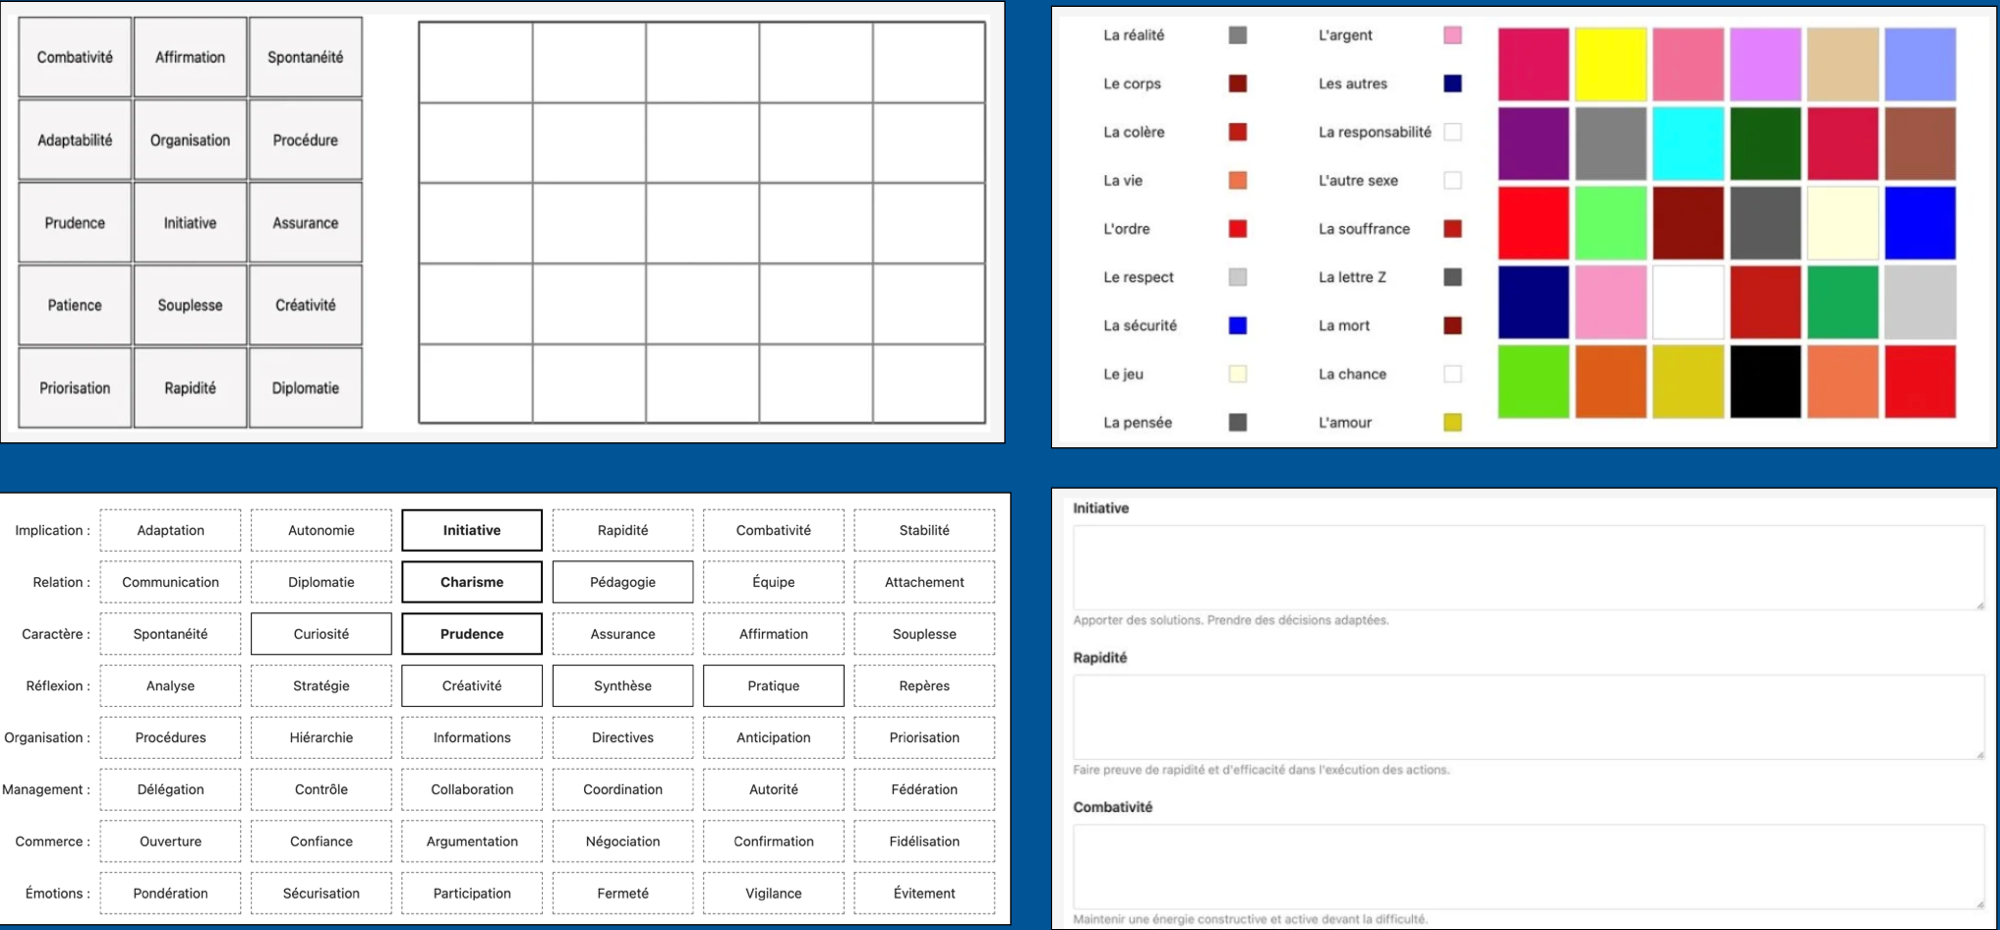
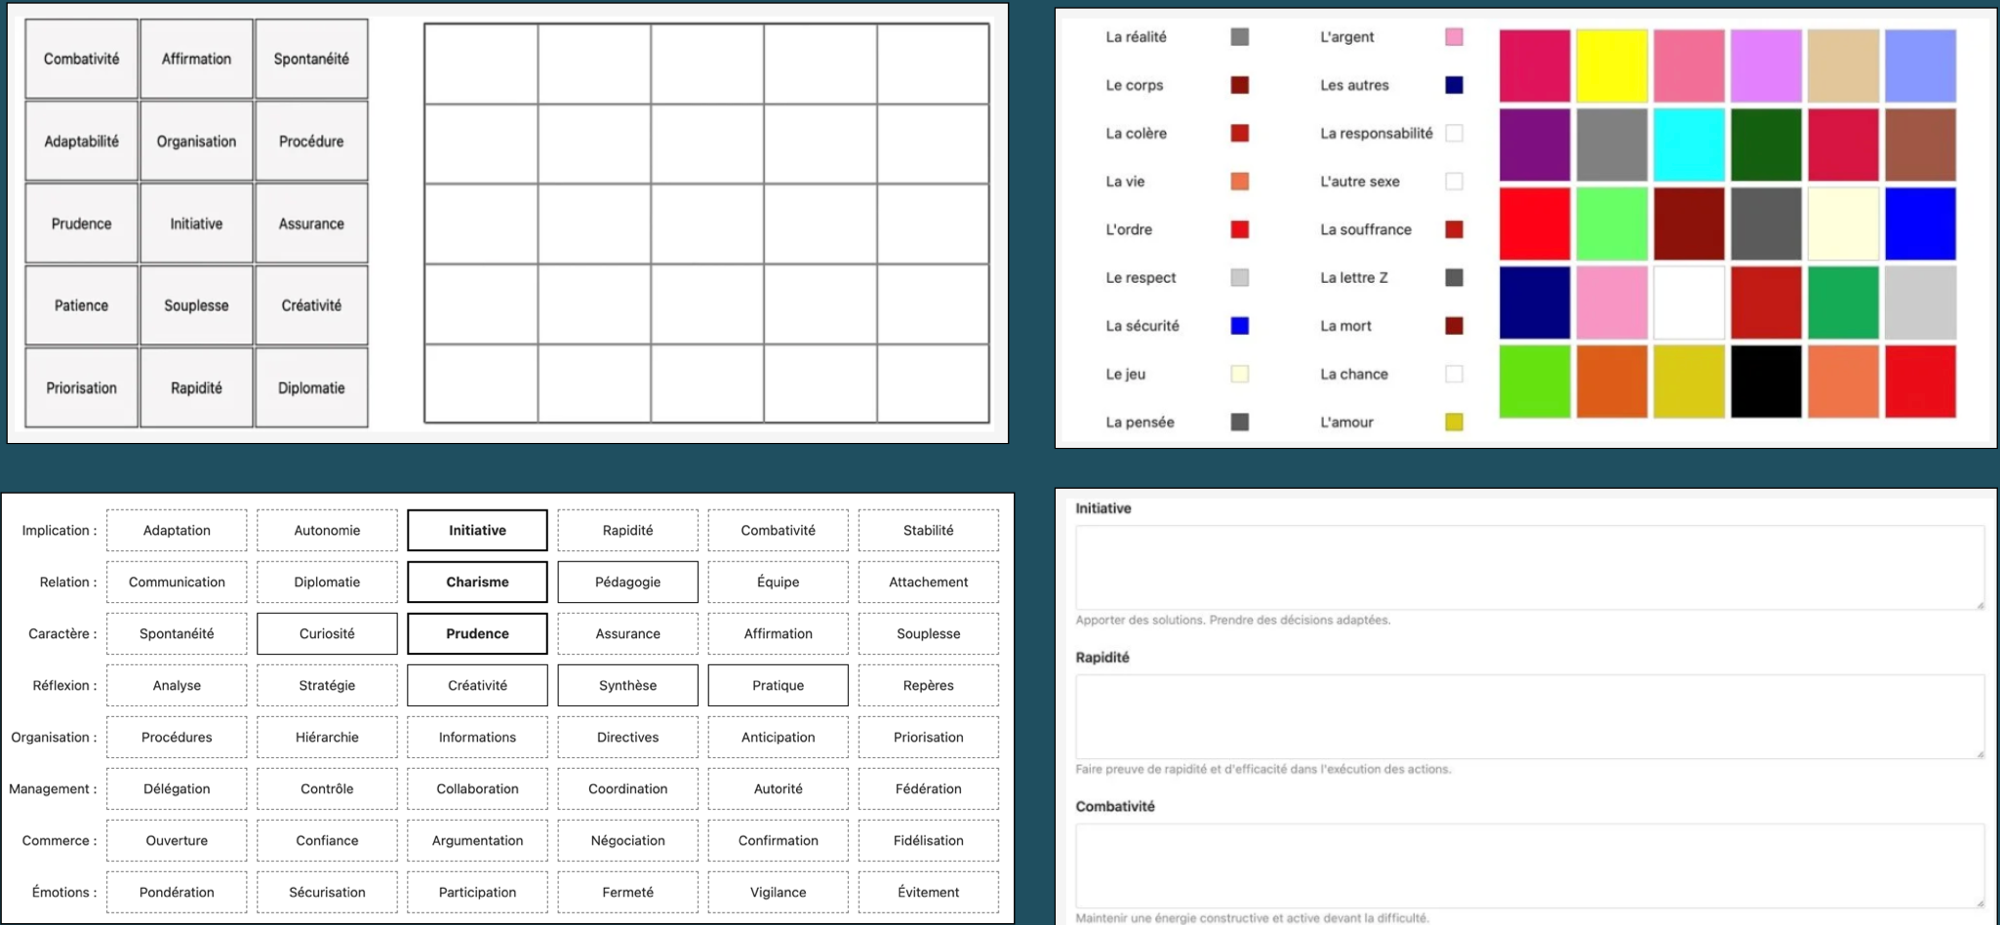
theme: petrol palette, beige navbar, visible card frames + page assets
Style (assets/style.css)
- Migrate "bleu roi" #005493 → "bleu pétrole" #1F4E5F across all blue
  tokens (--ink, --ink-soft, --ink-line, --black, --black-soft,
  --venn-blue) and the .hero gradient hardcoded stop
- Navbar: dark transparent → solid var(--paper) beige; logo, links,
  burger, CTA buttons all switched to var(--ink) text colour for
  contrast on the new light bg
- Mobile dropdown menu: bg switched from var(--ink-soft) to
  var(--paper) so links remain readable; full-width nav items + cta
- Cards now have visible frames (Option B): --ink-soft bumped to
  #2A5E72 (slightly lighter than body) so .step / .offer / .pillar /
  .validation-item have a distinct fill, plus a beige rgba(244,239,
  230,0.18) border on each card. .pillar hover lightens to #34708A.
- Fix CSS specificity: .nav-links a.nav-cta:hover and a.nav-app:hover
  now beat .nav-links a:hover so the buttons get var(--paper) text on
  hover instead of var(--ink) (was making the label invisible)

Page assets
- metier.html: header Venn diagram replaced with the petrol-bg version
  matching the site theme; alt text unchanged (still descriptive)
- expert.html: header swapped from "optimiser_etude" content to a
  two-profiles silhouette illustration; alt updated for accessibility
- outils.html: header swapped to a 4-quadrant view of the passation
  supports (softskills grid, colour nuancier, 48-criteria matrix,
  free-text); alt expanded
- services.html: comparatif image max-width 1200px → 800px to better
[…]

diff --git a/assets/style.css b/assets/style.css
@@ -7,11 +7,11 @@
 
 :root {
   /* Palette — tous les bleus unifiés sur la base Major Exchanges */
-  --ink:        #005493;
-  --ink-soft:   #005493;
-  --ink-line:   #005493;
-  --black:      #005493;
-  --black-soft: #005493;
+  --ink:        #1F4E5F;
+  --ink-soft:   #2A5E72;
+  --ink-line:   #1F4E5F;
+  --black:      #1F4E5F;
+  --black-soft: #1F4E5F;
   --paper:      #F4EFE6;   /* crème chaude — texte principal */
   --paper-soft: #EAE2D3;
   --rust:       #C2572E;   /* terracotta — accent principal */
@@ -20,7 +20,7 @@
   --gold:       #C9A961;   /* or atténué — secondaire */
   --sage:       #7A8B6F;
   --venn-orange: #D87331;  /* Venn diagram softskills */
-  --venn-blue:   #005493;
+  --venn-blue:   #1F4E5F;
   --venn-red:    #C24330;
 
   /* Typography */
@@ -170,10 +170,8 @@ p { max-width: 68ch; }
   top: 0; left: 0; right: 0;
   z-index: 100;
   padding: 20px var(--gutter);
-  background: rgba(5, 8, 16, 0.88);
-  backdrop-filter: blur(18px);
-  -webkit-backdrop-filter: blur(18px);
-  border-bottom: 1px solid rgba(255,255,255,0.08);
+  background: var(--paper);
+  border-bottom: 1px solid rgba(0, 0, 0, 0.08);
   transition: padding 0.3s var(--ease);
 }
 
@@ -191,7 +189,7 @@ p { max-width: 68ch; }
   font-size: 1.25rem;
   font-weight: 500;
   letter-spacing: 0.08em;
-  color: var(--paper);
+  color: var(--ink);
   display: flex;
   align-items: center;
   gap: 12px;
@@ -200,7 +198,7 @@ p { max-width: 68ch; }
 }
 
 .nav-logo .accent {
-  color: var(--paper);
+  color: var(--ink);
   font-weight: 400;
 }
 
@@ -248,12 +246,12 @@ p { max-width: 68ch; }
 
 .nav-links a {
   font-size: 0.875rem;
-  color: var(--paper-soft);
+  color: rgba(31, 78, 95, 0.75);
   transition: color 0.2s var(--ease);
   position: relative;
 }
 
-.nav-links a:hover { color: var(--paper); }
+.nav-links a:hover { color: var(--ink); }
 
 .nav-links a.active::after {
   content: '';
@@ -265,7 +263,8 @@ p { max-width: 68ch; }
 
 .nav-cta {
   padding: 10px 22px;
-  border: 1px solid var(--paper);
+  border: 1px solid var(--ink);
+  color: var(--ink);
   border-radius: 2px;
   font-size: 0.8125rem;
   letter-spacing: 0.05em;
@@ -273,16 +272,16 @@ p { max-width: 68ch; }
   transition: all 0.25s var(--ease);
 }
 
-.nav-cta:hover {
-  background: var(--paper);
-  color: var(--ink);
+.nav-links a.nav-cta:hover {
+  background: var(--ink);
+  color: var(--paper);
 }
 
 .nav-app {
   padding: 7px 14px;
   background: transparent;
-  color: var(--paper);
-  border: 1px solid rgba(244, 239, 230, 0.35);
+  color: var(--ink);
+  border: 1px solid rgba(31, 78, 95, 0.35);
   border-radius: 2px;
   font-size: 0.75rem;
   letter-spacing: 0.04em;
@@ -293,13 +292,13 @@ p { max-width: 68ch; }
   gap: 6px;
 }
 
-.nav-app:hover {
-  background: var(--paper);
-  color: var(--ink);
-  border-color: var(--paper);
+.nav-links a.nav-app:hover {
+  background: var(--ink);
+  color: var(--paper);
+  border-color: var(--ink);
 }
 
-.nav-burger { display: none; background: none; border: 0; color: var(--paper); cursor: pointer; padding: 8px; }
+.nav-burger { display: none; background: none; border: 0; color: var(--ink); cursor: pointer; padding: 8px; }
 .nav-burger svg { width: 24px; height: 24px; }
 
 @media (max-width: 960px) {
@@ -310,11 +309,25 @@ p { max-width: 68ch; }
     flex-direction: column;
     position: absolute;
     top: 100%; left: 0; right: 0;
-    background: var(--ink-soft);
+    background: var(--paper);
     padding: 24px var(--gutter);
-    border-bottom: 1px solid var(--ink-line);
+    border-bottom: 1px solid rgba(0, 0, 0, 0.08);
+    box-shadow: 0 8px 24px rgba(0, 0, 0, 0.08);
     gap: 20px;
     align-items: flex-start;
+  }
+  .nav-links.open li { width: 100%; }
+  .nav-links.open a {
+    display: block;
+    width: 100%;
+    padding: 6px 0;
+    font-size: 0.95rem;
+  }
+  .nav-links.open .nav-cta,
+  .nav-links.open .nav-app {
+    width: 100%;
+    text-align: center;
+    justify-content: center;
   }
 }
 
@@ -370,7 +383,7 @@ main { padding-top: 84px; }
   position: relative;
   overflow: hidden;
   background:
-    radial-gradient(ellipse at 50% 40%, #005493 0%, var(--black) 75%);
+    radial-gradient(ellipse at 50% 40%, #1F4E5F 0%, var(--black) 75%);
 }
 
 /* Halo central très discret pour donner de la profondeur derrière la rosace */
@@ -1599,7 +1612,7 @@ main { padding-top: 84px; }
   border-radius: 50%;
   margin-bottom: 24px;
   background:
-    radial-gradient(circle at 30% 30%, #005493, var(--ink) 70%);
+    radial-gradient(circle at 30% 30%, #1F4E5F, var(--ink) 70%);
   display: flex;
   align-items: center;
   justify-content: center;
@@ -1943,3 +1956,29 @@ main { padding-top: 84px; }
   }
 }
 
+
+/* =========================================================
+   Card frames — Option B
+   Cadres apparents pour toutes les sections multi-items.
+   Bordure beige semi-transparente sur fond pétrole pour fort contraste.
+   Sections claires (.section-light) gardent leur border-color spécifique.
+   ========================================================= */
+.step,
+.offer,
+.pillar,
+.validation-item {
+  border: 1px solid rgba(244, 239, 230, 0.18);
+}
+
+/* .pillar et .validation-item utilisaient var(--ink) (= body bg) =
+   cards invisibles. On bascule sur le nouveau --ink-soft (légèrement
+   plus clair que le body) pour les rendre lisibles. */
+.pillar,
+.validation-item {
+  background: var(--ink-soft);
+}
+
+/* Hover du pillar — tonalité encore plus claire pour feedback visuel */
+.pillar:hover {
+  background: #34708A;
+}

diff --git a/services.html b/services.html
@@ -144,7 +144,7 @@
     </p>
 
     <div class="figure reveal" style="margin-top:48px;">
-      <img src="assets/img/comparatif_etudes.png" alt="Tableau comparatif des deux niveaux d'étude — Étude approfondie et Étude approfondie + (verbatim candidat)" loading="lazy" style="background:var(--paper); border-radius:4px; padding:clamp(16px, 3vw, 32px); width:100%; max-width:1200px; height:auto; display:block; margin:0 auto;" />
+      <img src="assets/img/comparatif_etudes.png" alt="Tableau comparatif des deux niveaux d'étude — Étude approfondie et Étude approfondie + (verbatim candidat)" loading="lazy" style="background:var(--paper); border-radius:4px; padding:clamp(16px, 3vw, 32px); width:100%; max-width:800px; height:auto; display:block; margin:0 auto;" />
       <p class="figure-caption">Détail des prestations · 5 à 7 h de réalisation par étude</p>
     </div>
   </div>

diff --git a/expert.html b/expert.html
@@ -73,7 +73,7 @@
 
     <div class="media-split media-split-flip" style="margin-top:80px;">
       <div class="media-split-img reveal" style="aspect-ratio: 1 / 1; max-height: none; background: transparent; box-shadow: none;">
-        <img src="assets/img/optimiser_etude.png" alt="Comment optimiser une étude — réaliser une étude de personnalité et de motivation de la façon la plus objective et la plus constructive" loading="lazy" style="object-fit: contain;" />
+        <img src="assets/img/optimiser_etude.png" alt="Deux profils stylisés se faisant face — l'expertise Major Exchanges au service du dialogue et de l'étude objective de la personnalité" loading="lazy" style="object-fit: contain;" />
       </div>
       <div class="reveal reveal-delay-1">
         <h3 style="margin-bottom:16px;">Le praticien <em class="display-italic">au centre</em>.</h3>

diff --git a/outils.html b/outils.html
@@ -72,7 +72,7 @@
     </div>
 
     <div class="figure reveal" style="margin-top:80px;">
-      <img src="assets/img/outils_passation.png" alt="Aperçu des supports de passation Major Exchanges — exercices auto-évaluation et grille des 48 critères" loading="lazy" style="width:100%; max-width:1200px; height:auto;" />
+      <img src="assets/img/outils_passation.png" alt="Aperçu des 4 supports de passation Major Exchanges — grille de softskills (Combativité, Affirmation, Spontanéité…), nuancier des 18 valeurs, matrice des 48 critères comportementaux et zone de saisie libre" loading="lazy" style="width:100%; max-width:1200px; height:auto;" />
       <p class="figure-caption">Aperçu des supports de passation · exercices d'auto-évaluation et grille des 48 critères</p>
     </div>
   </div>
